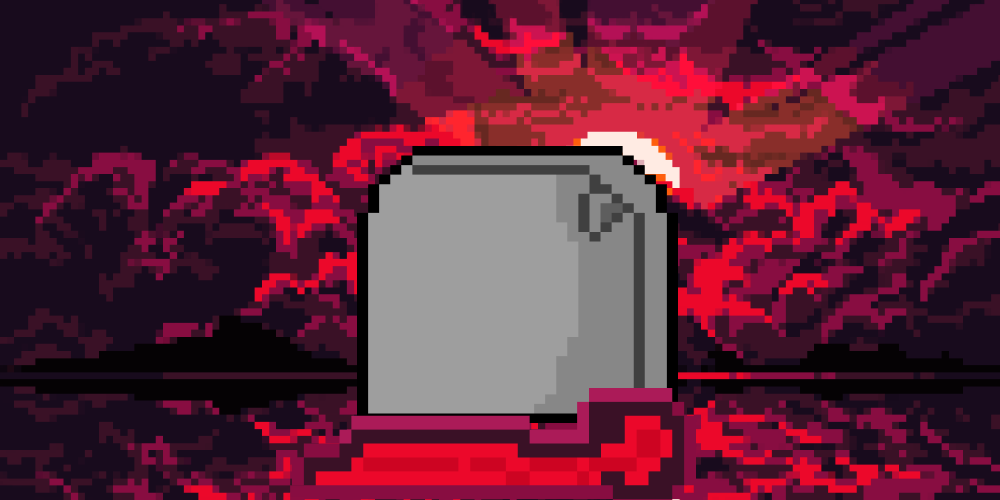
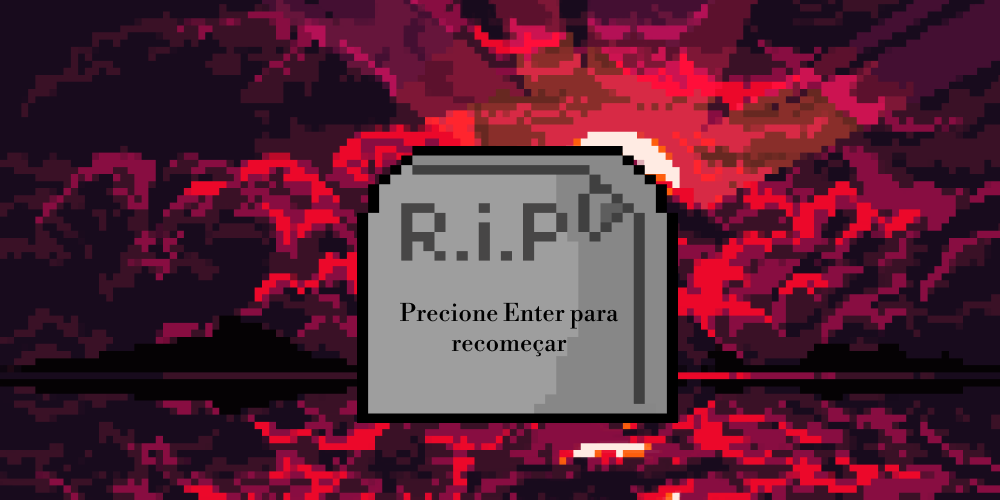
tela de game over

Changed region(s): [[0.279, 0.75, 0.713, 1.0], [0.403, 0.39, 0.589, 0.54], [0.403, 0.6, 0.62, 0.72]]

diff --git a/SuperJudsonWorld/GameOver.h b/SuperJudsonWorld/GameOver.h
@@ -5,26 +5,25 @@
 
 #include "Game.h"
 #include "Sprite.h"
-#include "Font.h"
-#include <sstream>
-
-using std::stringstream;
 
 // ------------------------------------------------------------------------------
 
 class GameOver : public Game
 {
 private:
-    Sprite * title = nullptr;       // tela de fim
-
-    Font* font = nullptr;
-    stringstream text;
+    Sprite * backg = nullptr;       // tela de fim
 
 public:
     void Init();                    // inicializa��o do n�vel
     void Update();                  // l�gica da tela de fim
-    void Draw();                    // desenho da tela
-    void Finalize();                // finaliza��o do n�vel
+    void Draw() 
+    { 
+        backg->Draw(window->CenterX(), window->CenterY());  
+    };                              // desenho da tela
+    void Finalize() 
+    {
+        delete backg;
+    };                              // finaliza��o do n�vel
 };
 
 // ------------------------------------------------------------------------------
